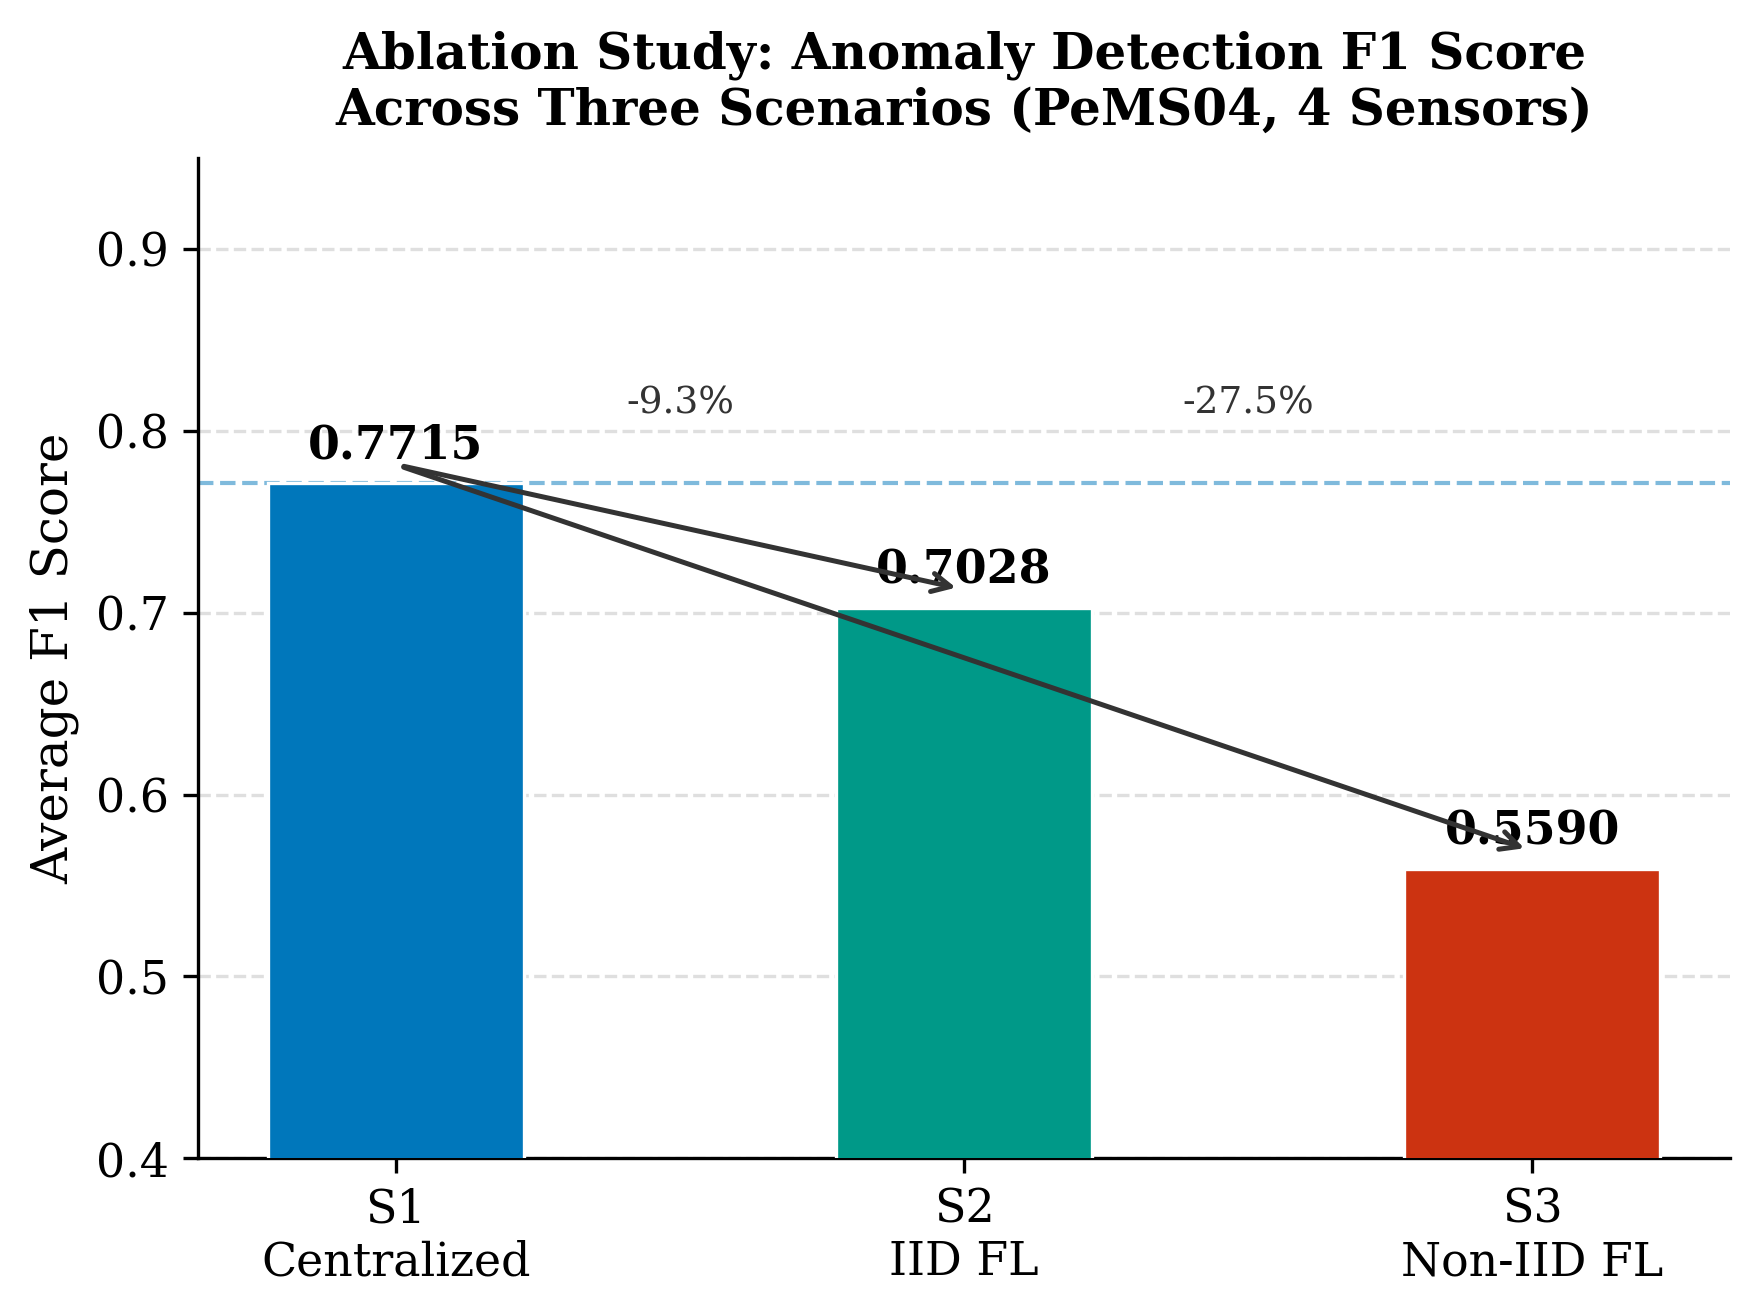
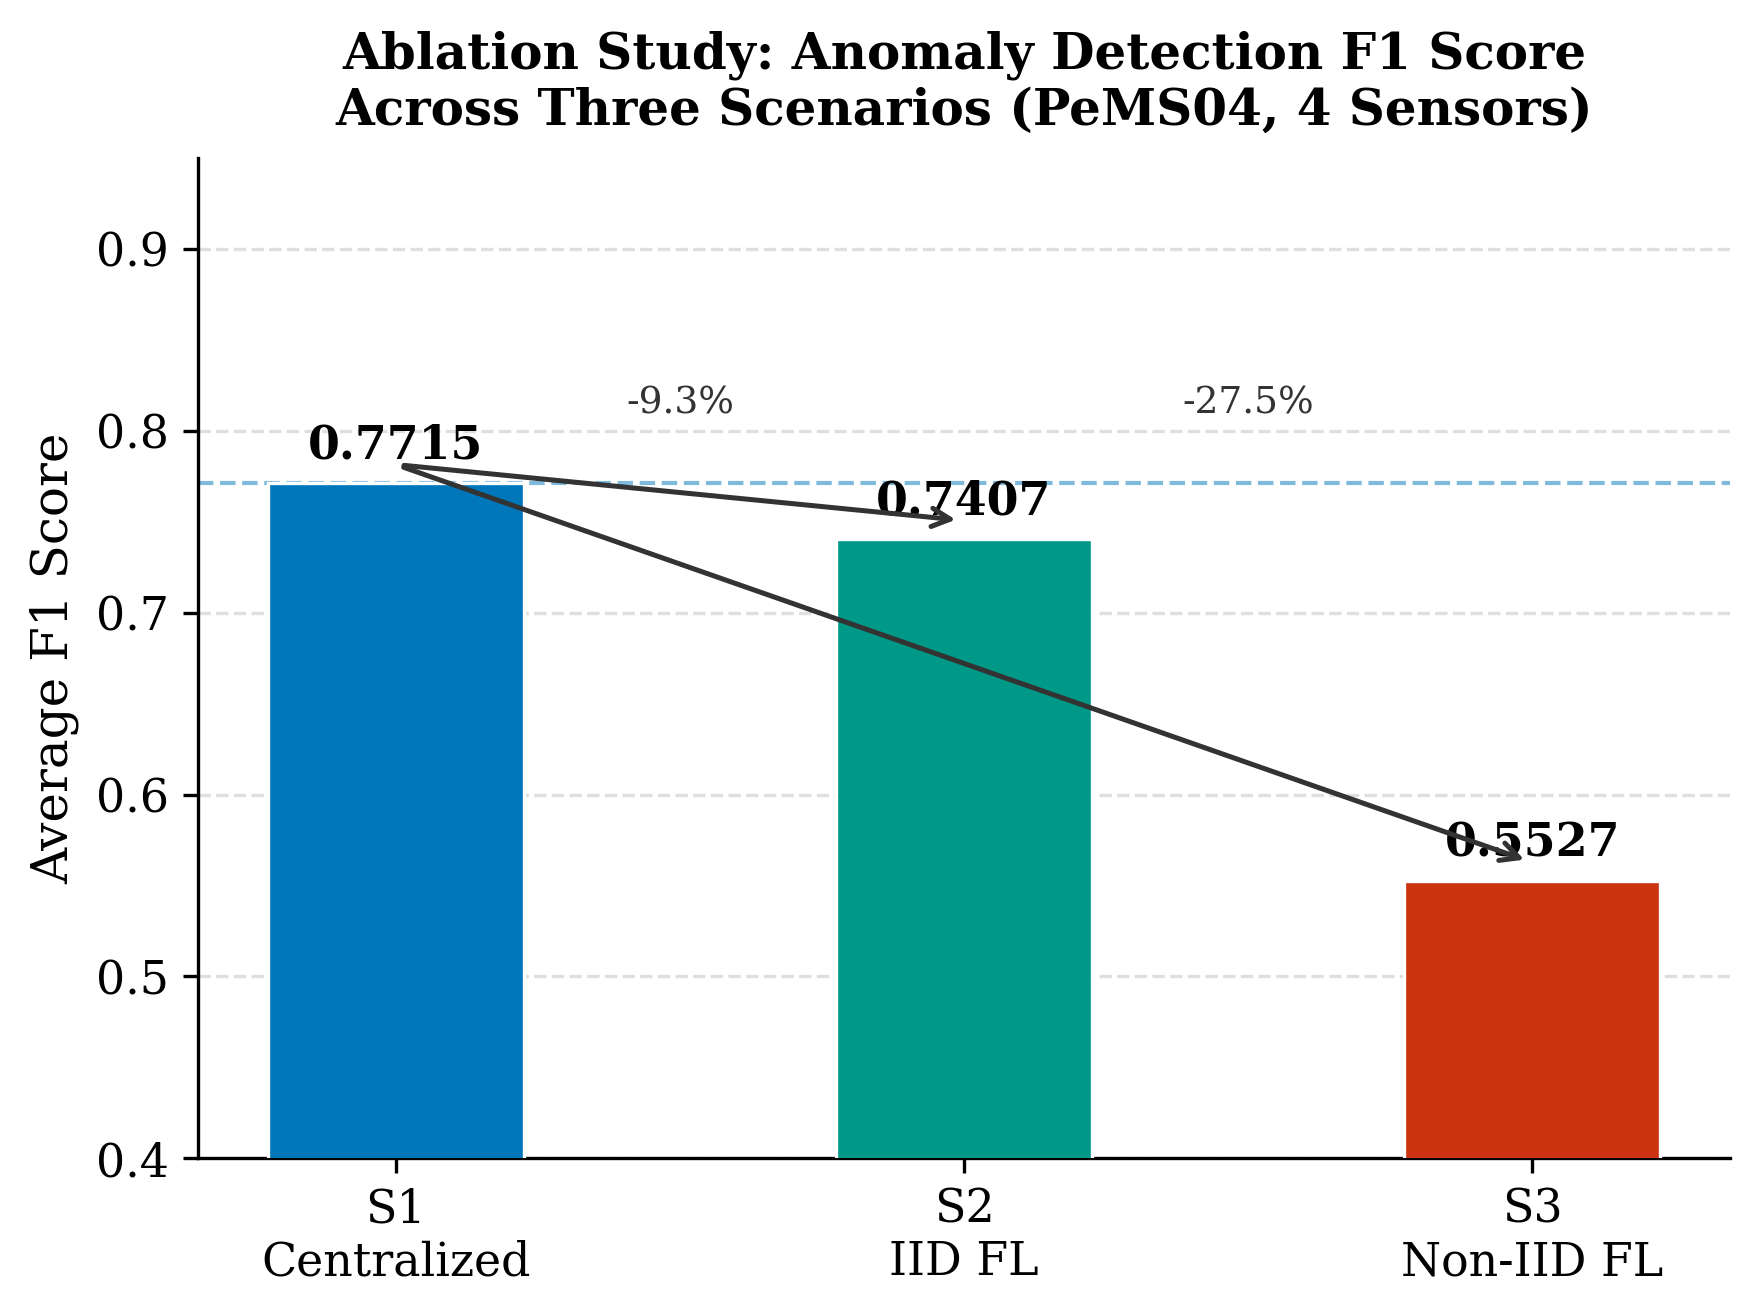
fix(figures): update fig10/fig11 with v3 correct F1 values

diff --git a/src/regen_fig10_fig11.py b/src/regen_fig10_fig11.py
@@ -21,7 +21,7 @@ plt.rcParams.update({'font.family': 'serif', 'font.size': 11})
 # ── FIG 10 ──────────────────────────────────────────────────────────
 fig, ax = plt.subplots(figsize=(6, 4.5))
 scenarios = ['S1\nCentralized', 'S2\nIID FL', 'S3\nNon-IID FL']
-f1_values = [0.7715, 0.7028, 0.5590]
+f1_values = [0.7715, 0.7407, 0.5527]
 colors    = [BLUE, GREEN, RED]
 
 bars = ax.bar(scenarios, f1_values, width=0.45,
